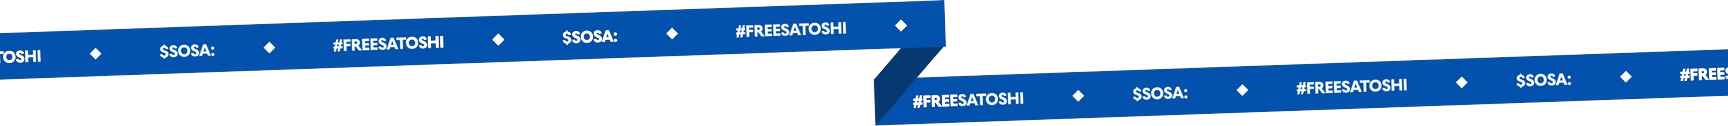
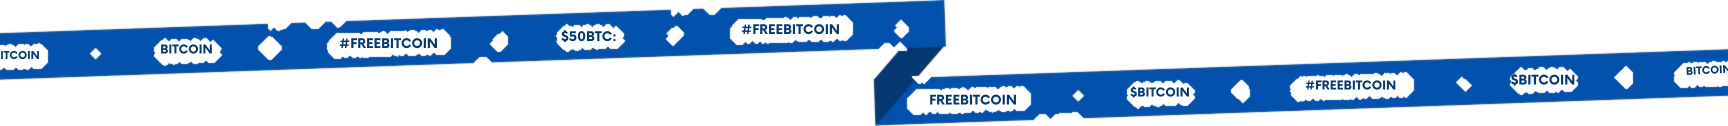
ee

diff --git a/app/component/tokenomics.js b/app/component/tokenomics.js
@@ -4,7 +4,9 @@ import token from "../asset/token.png";
 export default function Tokenomics() {
   return (
     <div>
-      <h1 className="text-center text-2xl  font-bold pt-8">TOKENOMICS</h1>{" "}
+      <h1 className="text-center text-2xl  font-bold pt-8 md:text-4xl ">
+        TOKENOMICS
+      </h1>{" "}
       <div className="flex justify-between px-6 gap-8  ">
         <div className="w-1/2">
           {" "}
@@ -17,7 +19,7 @@ export default function Tokenomics() {
           />{" "}
         </div>
         <div className="text-center flex flex-col justify-center items-center w-1/2 ">
-          <p className=" text-xs font-semibold">total supply</p>
+          <p className=" text-xs font-semibold md:text-base">total supply</p>
           <div>
             {" "}
             <Image
@@ -28,7 +30,7 @@ export default function Tokenomics() {
               height={460}
             />{" "}
           </div>
-          <p className="pt-8 md:pt-16 text-xs font-semibold">
+          <p className="pt-8 md:text-base md:pt-16 text-xs font-semibold">
             contract address
           </p>
           <div>

diff --git a/app/component/matrix.js b/app/component/matrix.js
@@ -6,18 +6,18 @@ export default function Matrix() {
     <div className="pt-16">
       <div className="flex h-full justify-between gap-6 px-6 ">
         <div className="text-center w-1/2 ">
-          <h1 className="pt-2 text-2xl font-bold">
+          <h1 className="pt-2 text-2xl  md:text-4xl font-bold">
             ESCAPE THE <span className="text-[#FF914D]">MATRIX</span>
           </h1>
 
-          <p className="text-xs">
-            $SATOSHI started a battle for everyone who believes in freedom from
+          <p className="text-xs md:text-base">
+            $BITCOIN started a battle for everyone who believes in freedom from
             the matrix.
           </p>
           <div className="flex justify-center pt-4">
-            <a className="px-3 text-xs py-2 font-semibold bg-black rounded-2xl text-white">
+            <a className="px-3 md:text-base text-xs py-2 font-semibold bg-black rounded-2xl text-white">
               {" "}
-              BUY BITCOIN
+              BUY $BITCOIN
             </a>
           </div>
         </div>{" "}

diff --git a/app/component/all.js b/app/component/all.js
@@ -11,15 +11,15 @@ export default function All() {
           <Image className="" src={all} alt="" width={460} height={460} />{" "}
         </div>
         <div className="text-center w-1/2 flex flex-col justify-center items-center">
-          <h1 className="pt-2 text-2xl font-bold">
+          <h1 className="pt-2 text-2xl font-bold md:text-4xl ">
             $WE ARE ALL $<span className="text-[#FF914D]">BITCOIN</span>
           </h1>
-          <p className="text-xs">
+          <p className="text-xs md:text-base">
             We're Seizing Power, Charting the Exodus to Financial Freedom. for
             the people, by the people.
           </p>
           <div className="flex pt-2 justify-center">
-            <a className="px-3 text-xs py-2 font-semibold bg-[#FF914D] rounded-2xl text-white">
+            <a className="px-3 text-xs md:text-base py-2 font-semibold bg-[#FF914D] rounded-2xl text-white">
               {" "}
               CHART
             </a>

diff --git a/app/component/hero.js b/app/component/hero.js
@@ -54,9 +54,11 @@ export default function Hero() {
               />
             </a>
           </div>
-          <h1 className="pt-2 text-2xl font-bold text-[#FF914D]">$BITCOIN</h1>
-          <h2 className=" text-lg font-bold">FATHER OF BITCOIN</h2>{" "}
-          <p className="text-xs">
+          <h1 className="pt-2 text-2xl font-bold text-[#FF914D] md:text-4xl ">
+            $BITCOIN
+          </h1>
+          <h2 className=" text-lg font-bold md:text-4xl ">FATHER OF BITCOIN</h2>{" "}
+          <p className="text-xs md:text-base">
             $BITCOIN is a memecoin with a big mission: celebrate Satoshi and his
             invention, Bitcoin, in the day of the halving.
           </p>

diff --git a/app/page.js b/app/page.js
@@ -39,7 +39,7 @@ export default function Home() {
         {" "}
         <Image
           className="w-full"
-          src={blanc}
+          src={blank}
           alt=""
           width={560}
           height={560}
